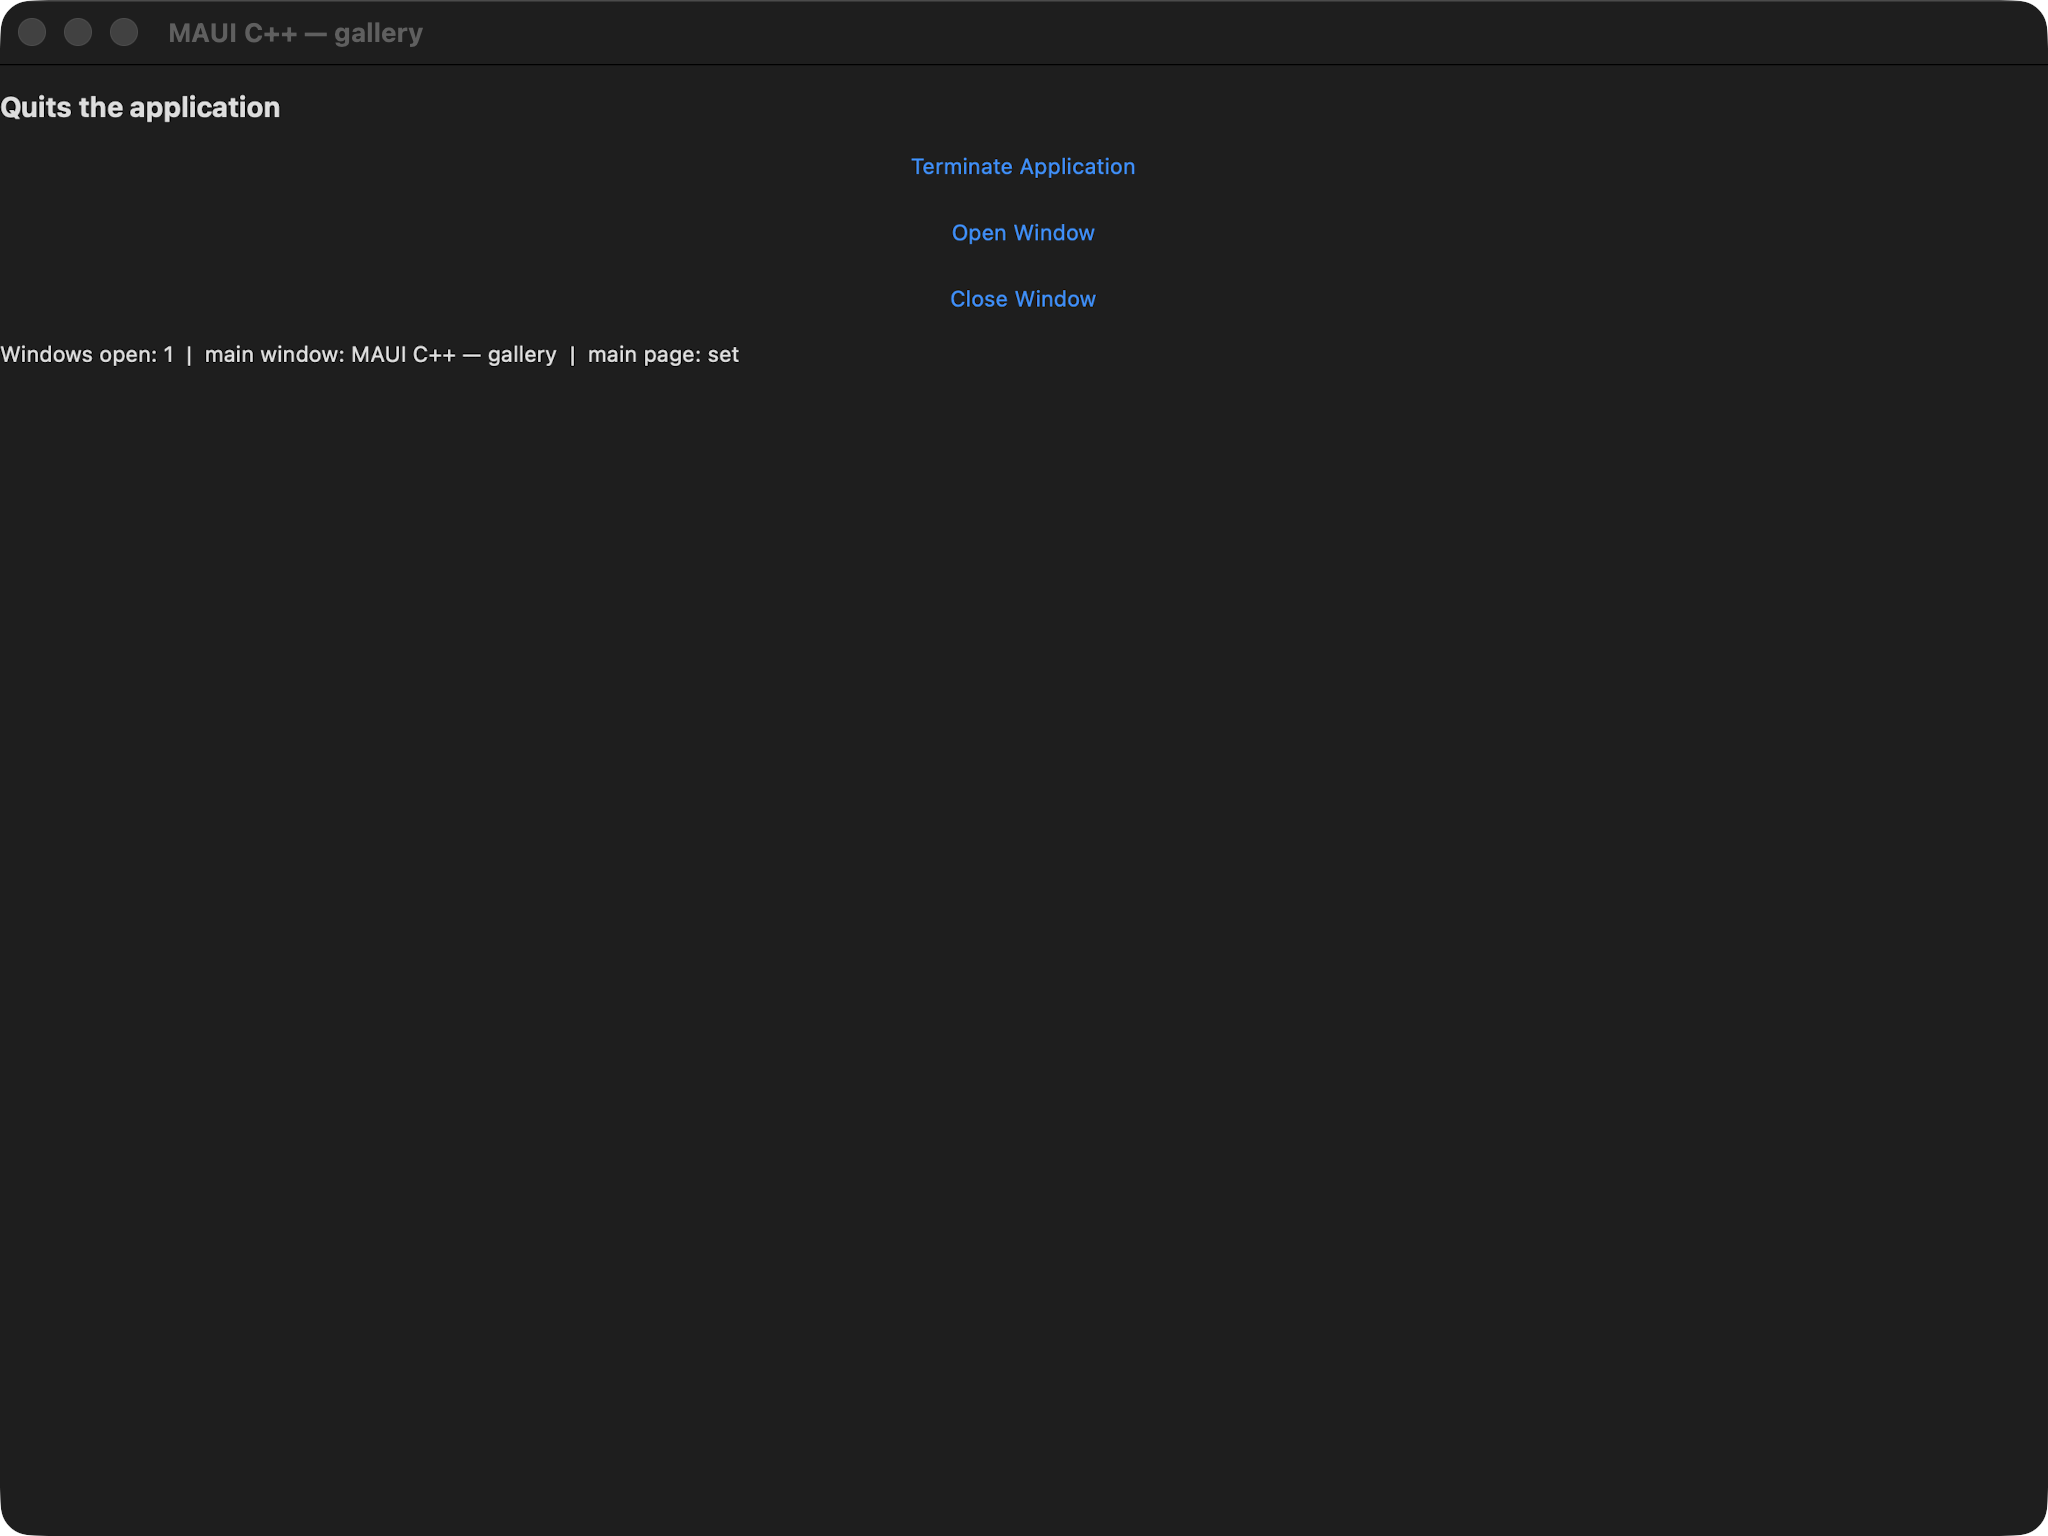
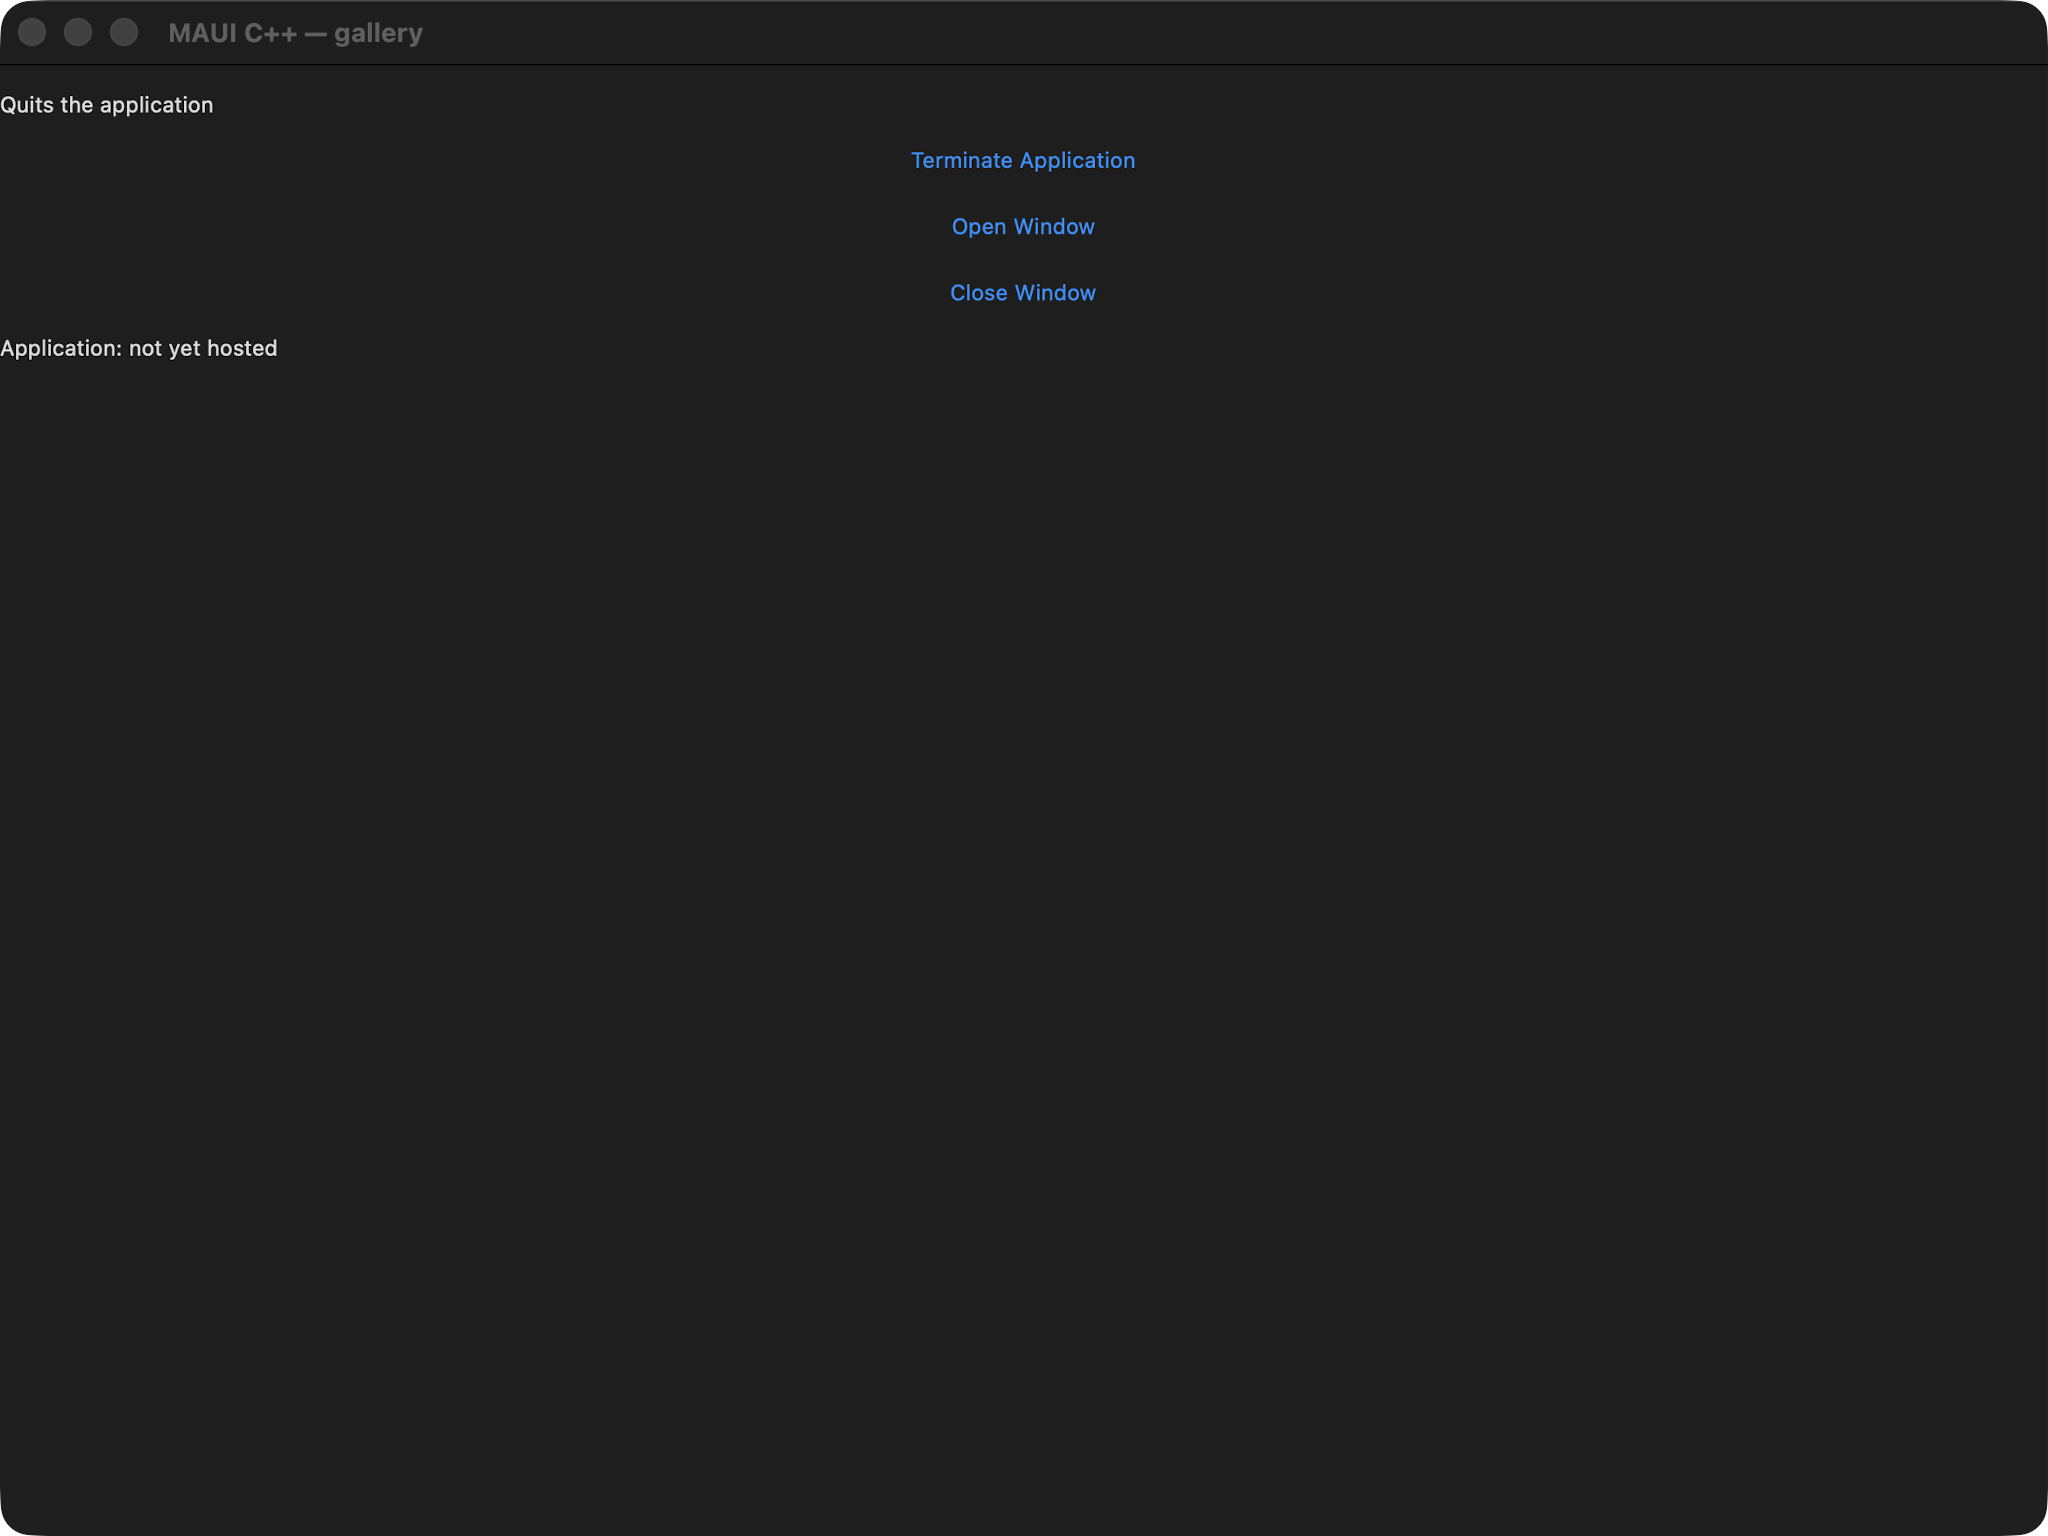
fix(gallery): application_control builder drift -> green (maccatalyst 118->119 green)
Two builder drifts vs the shared application_control.xaml (which has a PLAIN 'Quits the
application' Label + a STATIC 'Application: not yet hosted' Label):
- removed the bold/size-18 font on the headline (a stale 'Android parity' workaround
  against the old maui-compare Headline style; the current shared XAML label is plain).
- stopped on_mounted from overwriting the second label with a live 'Windows open: N |
  main window: ... | main page: set' runtime status — the shared XAML's second label is
  the static 'Application: not yet hosted' text (the resting appearance). The Terminate/
  Open/Close buttons still refresh() the readout on click for interactive use.

Now plain headline + 3 blue buttons + static status label match MAUI in both themes.
Structure-equivalence + gallery-twin tests still green. maccatalyst cpp 119 green / 54
yellow / 3 red. Consistency 0/520. NOTE: the font change is cross-platform — ios/android
application_control should be recaptured to confirm still-green (plain ref = plain cpp).

diff --git a/port/cpp/examples/gallery/pages/application_control_page.hpp b/port/cpp/examples/gallery/pages/application_control_page.hpp
@@ -32,7 +32,6 @@
 #include "maui/controls/label.hpp"
 #include "maui/controls/vertical_stack_layout.hpp"
 #include "maui/controls/window.hpp"
-#include "maui/core/font.hpp"
 #include "maui/hosting/maui_app.hpp"
 
 namespace maui::samples
@@ -45,11 +44,7 @@ namespace maui::samples
             page_.set_title("App Control"); // C# Title="App Control"
             stack_.set_spacing(12);
 
-            headline_.set_text("Quits the application"); // C# headline label (Style=Headline)
-            // The maui-compare reference renders the headline as FontSize=18, FontAttributes=Bold set
-            // directly in code (the "Headline" style resolves to bold/larger). Without this the port
-            // rendered the headline in regular weight/smaller size vs MAUI's bold (an Android parity diff).
-            headline_.set_font(maui::core::font::system_font_of_size(18, maui::core::font_weight::bold));
+            headline_.set_text("Quits the application"); // shared XAML: plain <Label Text="Quits the application" />
 
             terminate_button_.set_text("Terminate Application"); // C# "Terminate Application"
             terminate_button_.clicked.connect([this] { terminate(); });
@@ -89,13 +84,9 @@ namespace maui::samples
         {
             app_ = &app; // the hosting maui_app (its open_window/close_window route the lifecycle)
             application_ = app.application().get(); // the minted controls::application (may be null if unconfigured)
-            // The generic mount opens the window BEFORE on_mounted runs, so refresh() already reads the real
-            // window count; also re-run on `started` so a later open/close keeps the readout live.
-            if (application_ != nullptr)
-            {
-                application_->started.connect([this] { refresh(); });
-            }
-            refresh();
+            // Do NOT auto-refresh the readout at mount: the shared application_control.xaml's second label is
+            // the STATIC "Application: not yet hosted" text (the resting appearance the board captures). The
+            // Terminate/Open/Close buttons still call refresh() on click to show the live window state.
         }
 
         // ---- owned controls, exposed for the hosting main's bottom-up attachment + tests ----

diff --git a/port/cpp/docs/comparison/README.md b/port/cpp/docs/comparison/README.md
@@ -3687,8 +3687,8 @@ _Not yet computed — no automated pixel-diff score is recorded for this page ye
 
 | Classification | Sonnet 5 | Gemini |
 | --- | --- | --- |
-| 🟢 Match | 118 | 0 |
-| 🟡 Minor | 55 | 0 |
+| 🟢 Match | 119 | 0 |
+| 🟡 Minor | 54 | 0 |
 | 🔴 Major | 3 | 0 |
 | ⬛ Blank | 7 | 0 |
 | ⏳ Unreviewed | 12 | 195 |
@@ -3826,16 +3826,16 @@ _Not yet reviewed._
 
 _Not yet computed — no automated pixel-diff score is recorded for this page yet._
 
-### 8. Application Control — 🟡/⏳
+### 8. Application Control — 🟢/⏳
 <sub>application_control</sub>
 
 <table><tr><th></th><th>MAUI</th><th>C++</th><th>C++ &amp; XAML</th><th>AppKit / C++</th><th>AppKit / C++ &amp; XAML</th></tr><tr><th>Light</th><td><img width="300px" src="../../../maui-reference/captures/maccatalyst/application_control_light.png" /></td><td><img width="300px" src="captures/maccatalyst/cpp/application_control_light.png" /></td><td><img width="300px" src="captures/maccatalyst/xaml/application_control_light.png" /></td><td><img width="300px" src="captures/maccatalyst/appkit_cpp/application_control_light.png" /></td><td><img width="300px" src="captures/maccatalyst/appkit_xaml/application_control_light.png" /></td></tr><tr><th>Dark</th><td><img width="300px" src="../../../maui-reference/captures/maccatalyst/application_control_dark.png" /></td><td><img width="300px" src="captures/maccatalyst/cpp/application_control_dark.png" /></td><td><img width="300px" src="captures/maccatalyst/xaml/application_control_dark.png" /></td><td><img width="300px" src="captures/maccatalyst/appkit_cpp/application_control_dark.png" /></td><td><img width="300px" src="captures/maccatalyst/appkit_xaml/application_control_dark.png" /></td></tr></table>
 
 ports ApplicationControlPage.xaml (+ .xaml.cs)
 
-#### 🟡 Sonnet 5 Review
+#### 🟢 Sonnet 5 Review
 
-Both themes: 'Quits the application' renders bold vs MAUI's plain text, and the status label reads 'Windows open: 1 | main window: ...' instead of MAUI's 'Application: not yet hosted'. Buttons and layout otherwise match.
+C1/C3: fixed two builder drifts vs the shared XAML — removed the bold/size-18 font on the 'Quits the application' headline (XAML label is plain) and stopped on_mounted from overwriting the second label with a live 'Windows open: N | main window: ...' status (the shared XAML's second label is the STATIC 'Application: not yet hosted' text). Now plain headline + 3 blue buttons + static status label match MAUI in both themes. (The buttons still refresh() the readout on click for interactive use.)
 
 #### ⏳ Gemini Review
 
